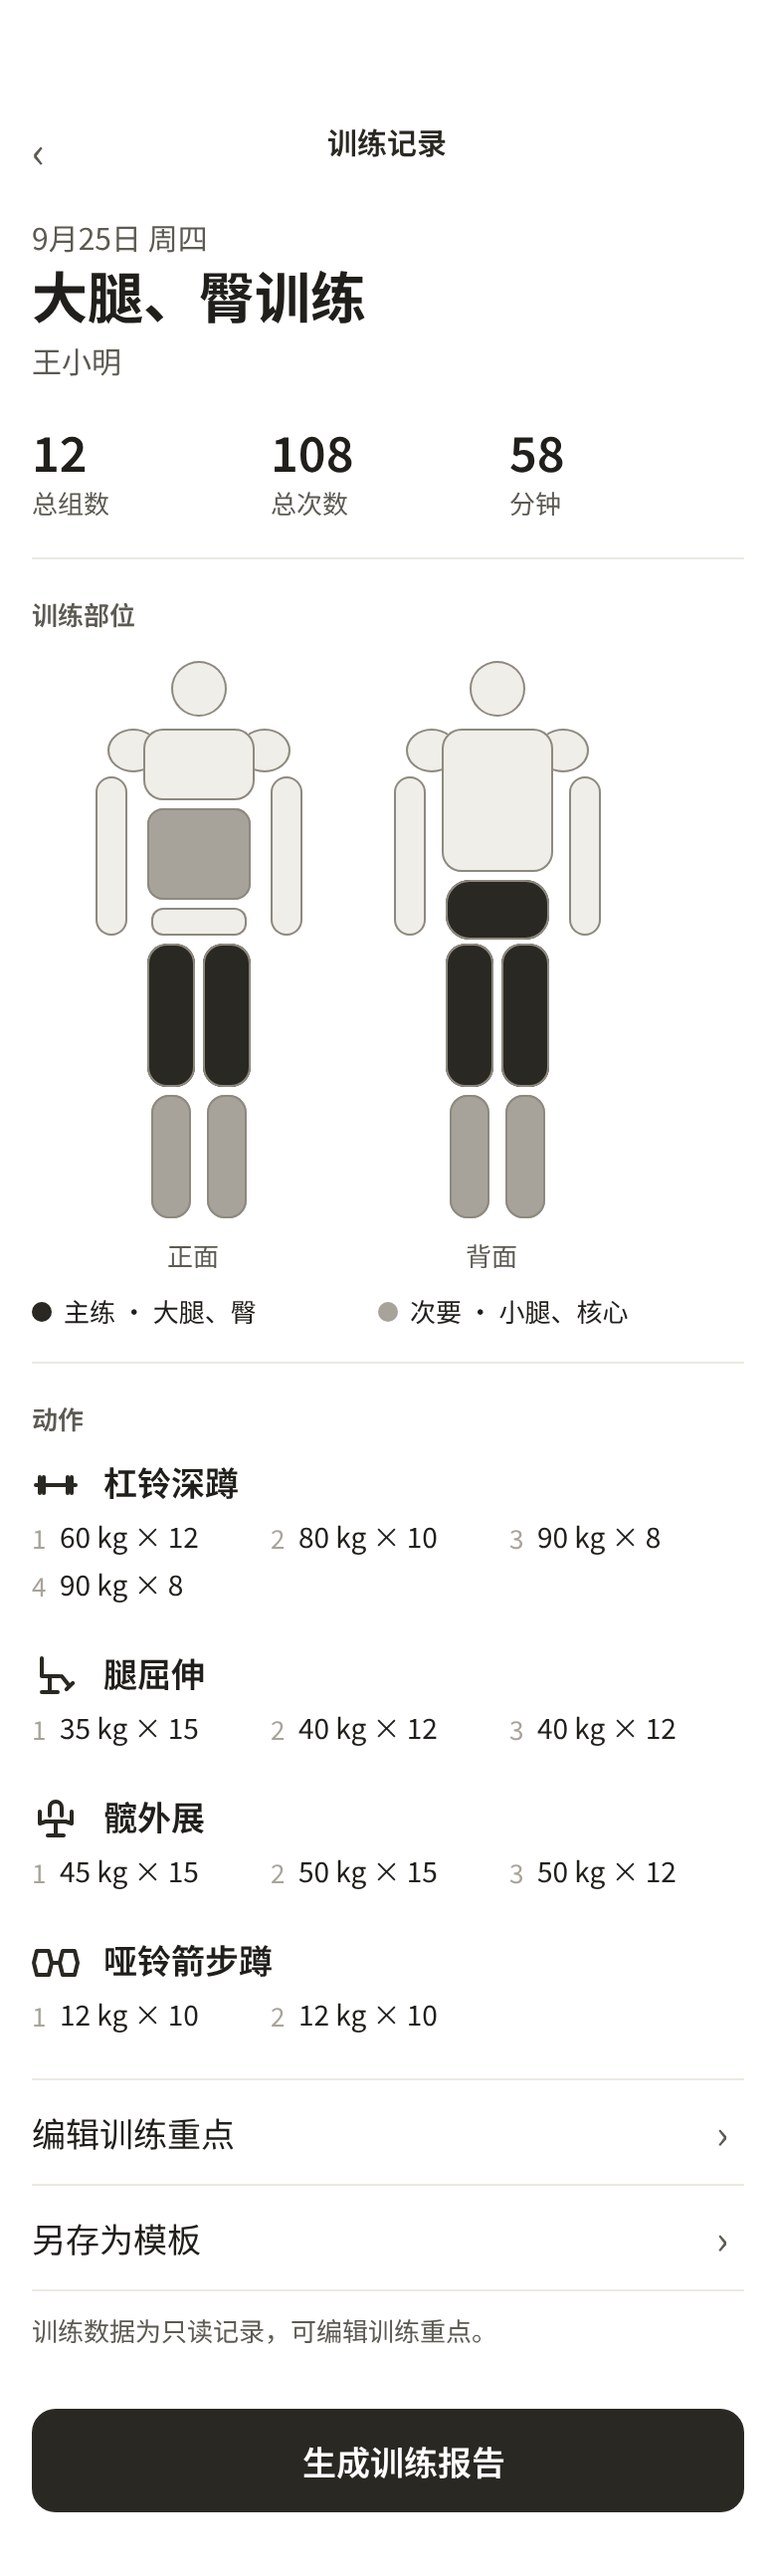
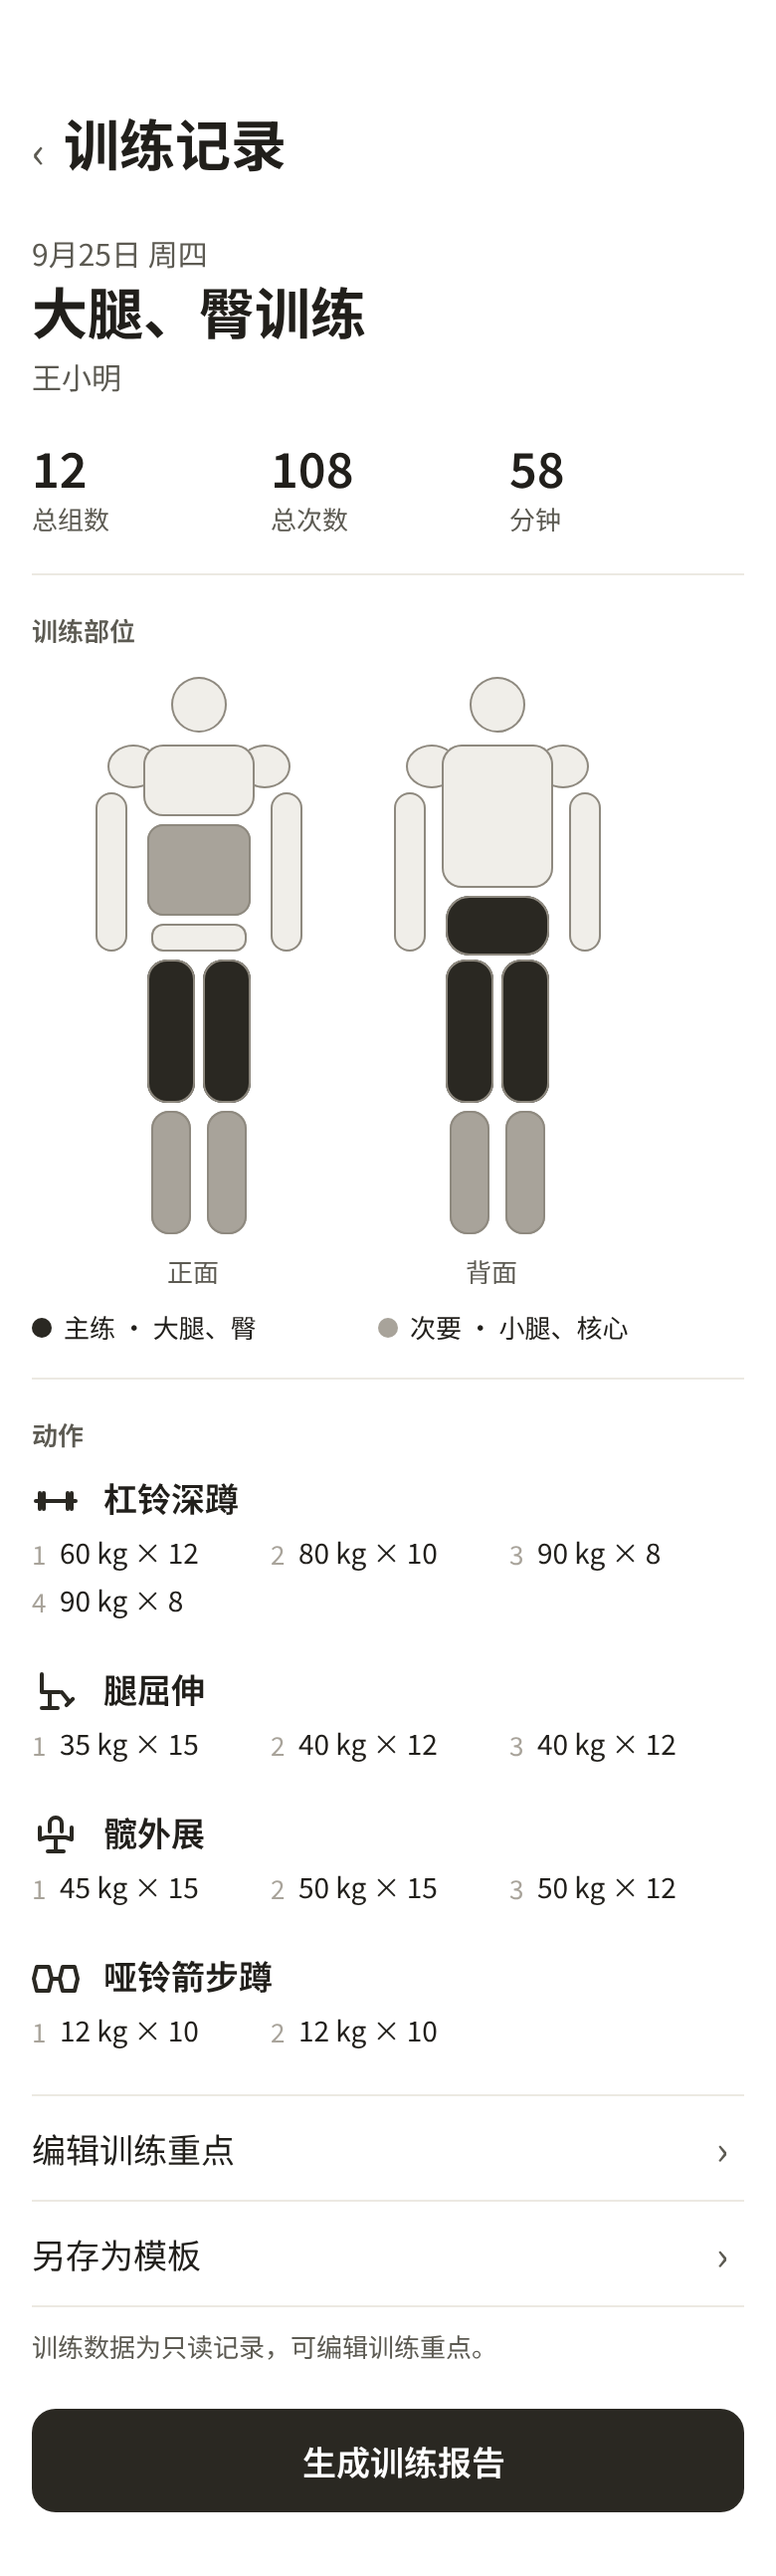
design: import 2x exports of 35, 42, 43, M2-13 and D-a3 after the header, About and record-float changes

diff --git a/design/design-system/README.md b/design/design-system/README.md
@@ -106,9 +106,9 @@ Phase 6.5 人工审核（T063）发现 8 个核心界面需要结构调整，并
 - Penpot（Foundations 页）：快照 `before-record-float 2026-10-23` → `record-float D-a3 + D-a2 haptic note 2026-10-23`。
   - 新增画板「D-a3 新纪录浮起（关键帧，2026-10-23）」，x=12650、y=3750（D7b-r 右侧）：0.1 / 0.3 / 0.6 s 三帧、参数标注、真机试选 A/B/C。
   - D-a2 ④ 触感说明改为「确认一组统一 light 触感；破纪录另有数字浮起，见 D-a3。」
-- 导出：`design/progress-milestones/D-a3-record-float@1x.png`（MCP 1x 参考图）。
+- 导出：`design/progress-milestones/D-a3-record-float.png`（2 倍导出，2026-10-23 替换原 MCP 1x 参考图）。
 - 代码已实现（分支 `fix/record-float-motion`，2026-10-23）：`FCMotion` / `FCHaptic`（`ios/FineCoachApp/DesignSystem/FCMotion.swift`，internal：是 token 不是组件，不进 `components.md` §3 索引）；`DS-SET-ROW` 数值浮起；训练页、组圆圈、步进器迁移到 token；DEBUG 动效试验页。开发版试验页候选 A 8pt/0.5 s、B 12pt/0.6 s、C 16pt/0.8 s，负责人真机试后另加 D 档。执行记录见 `design/progress-milestones/implementation-map.md` §4 Phase 8。
-- **已选定 D 档**（产品负责人 2026-10-23 真机试过 B、C 与 D 24pt/1 s 后定为 24pt / 1.5 s，「12pt / 0.6 s 太克制，氛围感不足」；数字浮起时略压到上一组可以接受，反正会渐隐）：浮起距离 `space.6`（24pt），`motion.duration.emphasis` 0.6 s → 1.5 s，已写回 §14 并更新 Penpot D-a3（快照 `before-record-float D tier 2026-10-23` → `record-float D tier 24pt 1.5s 2026-10-23`，重新导出 `D-a3-record-float@1x.png`；分支 `fix/motion-lab-option-d`）。
+- **已选定 D 档**（产品负责人 2026-10-23 真机试过 B、C 与 D 24pt/1 s 后定为 24pt / 1.5 s，「12pt / 0.6 s 太克制，氛围感不足」；数字浮起时略压到上一组可以接受，反正会渐隐）：浮起距离 `space.6`（24pt），`motion.duration.emphasis` 0.6 s → 1.5 s，已写回 §14 并更新 Penpot D-a3（快照 `before-record-float D tier 2026-10-23` → `record-float D tier 24pt 1.5s 2026-10-23`，重新导出 `D-a3-record-float.png`（2 倍）；分支 `fix/motion-lab-option-d`）。
 
 ## 2. 颜色
 
@@ -428,10 +428,10 @@ Phase 6.5 人工审核（T063）发现 8 个核心界面需要结构调整，并
 | C15 | 集中走查 2026-10-22：分享报告结束后没有直接回到首页的入口，要一步步返回（预览 → 设置 → 总结「跳过分享」→ 学员详情 → 今日），至少两步 | 预览页（29）卡片之后常驻整宽次按钮「完成」（`DS-BUTTON` 次按钮），未分享、已交给系统、取消或失败时都显示；「完成」和总结页「跳过分享」都直接回到今日页（清空导航栈并切到「今日」）。否决：只在分享成功后才出现（未分享就离开仍要多步）；放在页头右上角（与「分享」抢位置） | 已定（产品负责人 2026-10-22） |
 | C16 | 集中走查 2026-10-22 D7/D8：总结页「上次 → 本次」几乎不出现（算新纪录的动作不再列进步，种子历史单调递增）；D2 同重量多做几次出现两个「新纪录」标记 | 新纪录只看主指标：重量严格高于历史最大（次数不限）、辅助重量更低、时长更长、次数更多；平手、第一次做、同重量多做几次、单组容量更高都不算。比上次进步：两节各取最好的一组（最重，同重量次数最多），一项更好另一项不变差算进步，一好一坏不列。每个动作一行「上次 … → 本次 …」，新纪录在同一行加胶囊；训练中每个动作只标一组。否决：加估算 1RM（PD-D6 维持）；容量纪录（日常「破纪录」指最大重量）。历史页「个人最佳」不变 | 已定（产品负责人 2026-10-23），已回填 Penpot D-a2、D-b、D-c2 |
 | C17 | 真机走查 2026-10-23：确认一组时 `.success` 与破纪录的 `.impact(heavy)` 在真机上区别不明显；设计系统没有动效 token，动效数值散写在代码里 | 所有确认一组统一 `haptic.confirm`（light impact）；破纪录时该组数值的装饰副本上浮 `space.3`、0.6 s easeOut 渐隐（2026-10-23 真机选定后改为 D 档 `space.6`、1.5 s，见 §1.9），只播一次，「新纪录」胶囊不变；「减弱动态效果」时不浮起。新增 §14 动效与触感 token（取自现有代码数值）。最终参数在开发版动效试验页的 A/B/C 三档中由负责人真机选定。否决：保留 heavy 触感（不易区分）；浮起胶囊（胶囊保持静态标记）；为 Penpot 建动效 token（不支持该类型） | 已定（产品负责人 2026-10-23），已回填 Penpot D-a2、D-a3 |
-| C18 | 真机走查 2026-10-23：训练历史 → 训练记录（35）的返回是 iOS 26 系统液态玻璃大圆钮，与其他二级页的行内 `‹` 不一致；35 与 M2-13 画稿是导航栏居中「训练记录」+ 左侧 `‹`，`components.md` 曾把它列为例外 | 35 与 M2-13 改用 `DS-PAGE-HEADER`：行内 `‹` + 页面内 `titleLarge`「训练记录」，`.fcSecondaryPage()` 隐藏系统导航栏、保留右滑返回；其下日期、训练标题等内容不变，内容与页头间距 `space.6`。全 App 二级页只剩一种页头，例外取消。否决：保留居中标题、只把系统返回换成行内 `‹`（仍是第二种页头写法） | 已定（产品负责人 2026-10-23），已回填 Penpot D12（35）、M2-13，快照 `before-header35 2026-10-23` → `header35 inline page title (35, M2-13) 2026-10-23` |
+| C18 | 真机走查 2026-10-23：训练历史 → 训练记录（35）的返回是 iOS 26 系统液态玻璃大圆钮，与其他二级页的行内 `‹` 不一致；35 与 M2-13 画稿是导航栏居中「训练记录」+ 左侧 `‹`，`components.md` 曾把它列为例外 | 35 与 M2-13 改用 `DS-PAGE-HEADER`：行内 `‹` + 页面内 `titleLarge`「训练记录」，`.fcSecondaryPage()` 隐藏系统导航栏、保留右滑返回；其下日期、训练标题等内容不变，内容与页头间距 `space.6`。全 App 二级页只剩一种页头，例外取消。否决：保留居中标题、只把系统返回换成行内 `‹`（仍是第二种页头写法） | 已定（产品负责人 2026-10-23），已回填 Penpot D12（35）、M2-13，快照 `before-header35 2026-10-23` → `header35 inline page title (35, M2-13) 2026-10-23`；`screens/` 的 35、M2-13 已于 2026-10-23 按 2 倍重导出替换 |
 | C19 | 产品负责人 2026-10-23：多名学员同时训练时，休息结束的系统通知都是「休息结束 / 可以开始下一组了」，分不清是谁；提议加学员名，但 specs 002 M1B-FR-011、README §8 和 P0-D5 都禁止通知出现学员身份 | 学员名不进通知。正文加当前动作名：「<动作名> · 可以开始下一组了」，标题仍「休息结束」；点击通知进入该学员正在进行的训练页（路由 ID 只放在不显示的 `userInfo`），训练已结束或放弃时只打开 App、不新建训练。否决：写学员名或称呼（锁屏对旁人可见）；靠 iOS「解锁后显示预览」隐藏（App 无法保证） | 已定（产品负责人 2026-10-23；specs 002 Revision 1.3）。无画稿变化 |
 | C20 | 2026-10-23 导航排查：训练总结、结束训练三步（含复核训练时长）、删除动作、归档学员 / 永久删除仍挂 iOS 系统导航栏；应用模板页已无入口 | 全 App 不再挂系统导航栏。训练总结改为页内 `DS-PAGE-HEADER`（无返回，右滑返回仍禁用）；全屏确认流程统一用页内标题（`title`）+ 页内「取消」，复核训练时长补页内标题；归档学员 / 永久删除的「取消」从系统栏移到页内；删除无入口的应用模板页（入口已并入添加动作面板「从模板」）。无画稿变化 | 已定（产品负责人 2026-10-23） |
-| C21 | 产品负责人 2026-10-23：设置 42「关于」一直显示「版本 —（—）」（工程从未设置版本号）；需要能找到源代码 | App 版本 0.2.0、构建号 1（pbxproj `MARKETING_VERSION` / `CURRENT_PROJECT_VERSION`，生成的 Info.plist 带出），「关于」行显示「版本 0.2.0（1）」；「关于」下方新增可点的「源代码」行（`DS-HUB-ROW`，代码图标、副标题 `github.com/ignacioli/FineCoach`、带 `›`），用系统浏览器打开公开仓库，App 不发任何网络请求。Penpot D15c/D15d（42/43）已回填，快照 `before-about-source-row 2026-10-23` → `about version 0.2.0 + source code row (42/43) 2026-10-23`；`screens/` 的 42/43 待按 2 倍重导出 | 已定（产品负责人 2026-10-23） |
+| C21 | 产品负责人 2026-10-23：设置 42「关于」一直显示「版本 —（—）」（工程从未设置版本号）；需要能找到源代码 | App 版本 0.2.0、构建号 1（pbxproj `MARKETING_VERSION` / `CURRENT_PROJECT_VERSION`，生成的 Info.plist 带出），「关于」行显示「版本 0.2.0（1）」；「关于」下方新增可点的「源代码」行（`DS-HUB-ROW`，代码图标、副标题 `github.com/ignacioli/FineCoach`、带 `›`），用系统浏览器打开公开仓库，App 不发任何网络请求。Penpot D15c/D15d（42/43）已回填，快照 `before-about-source-row 2026-10-23` → `about version 0.2.0 + source code row (42/43) 2026-10-23`；`screens/` 的 42/43 已于 2026-10-23 按 2 倍重导出替换 | 已定（产品负责人 2026-10-23） |
 | O6 | 吉祥物造型与知名动画角色是否存在版权关联 | 产品负责人确认：吉祥物为其自行生成的原创形象，与该角色无关，不涉及版权问题 | 已定（产品负责人） |
 
 ## 11. 对比度核验（WCAG 2.x）
